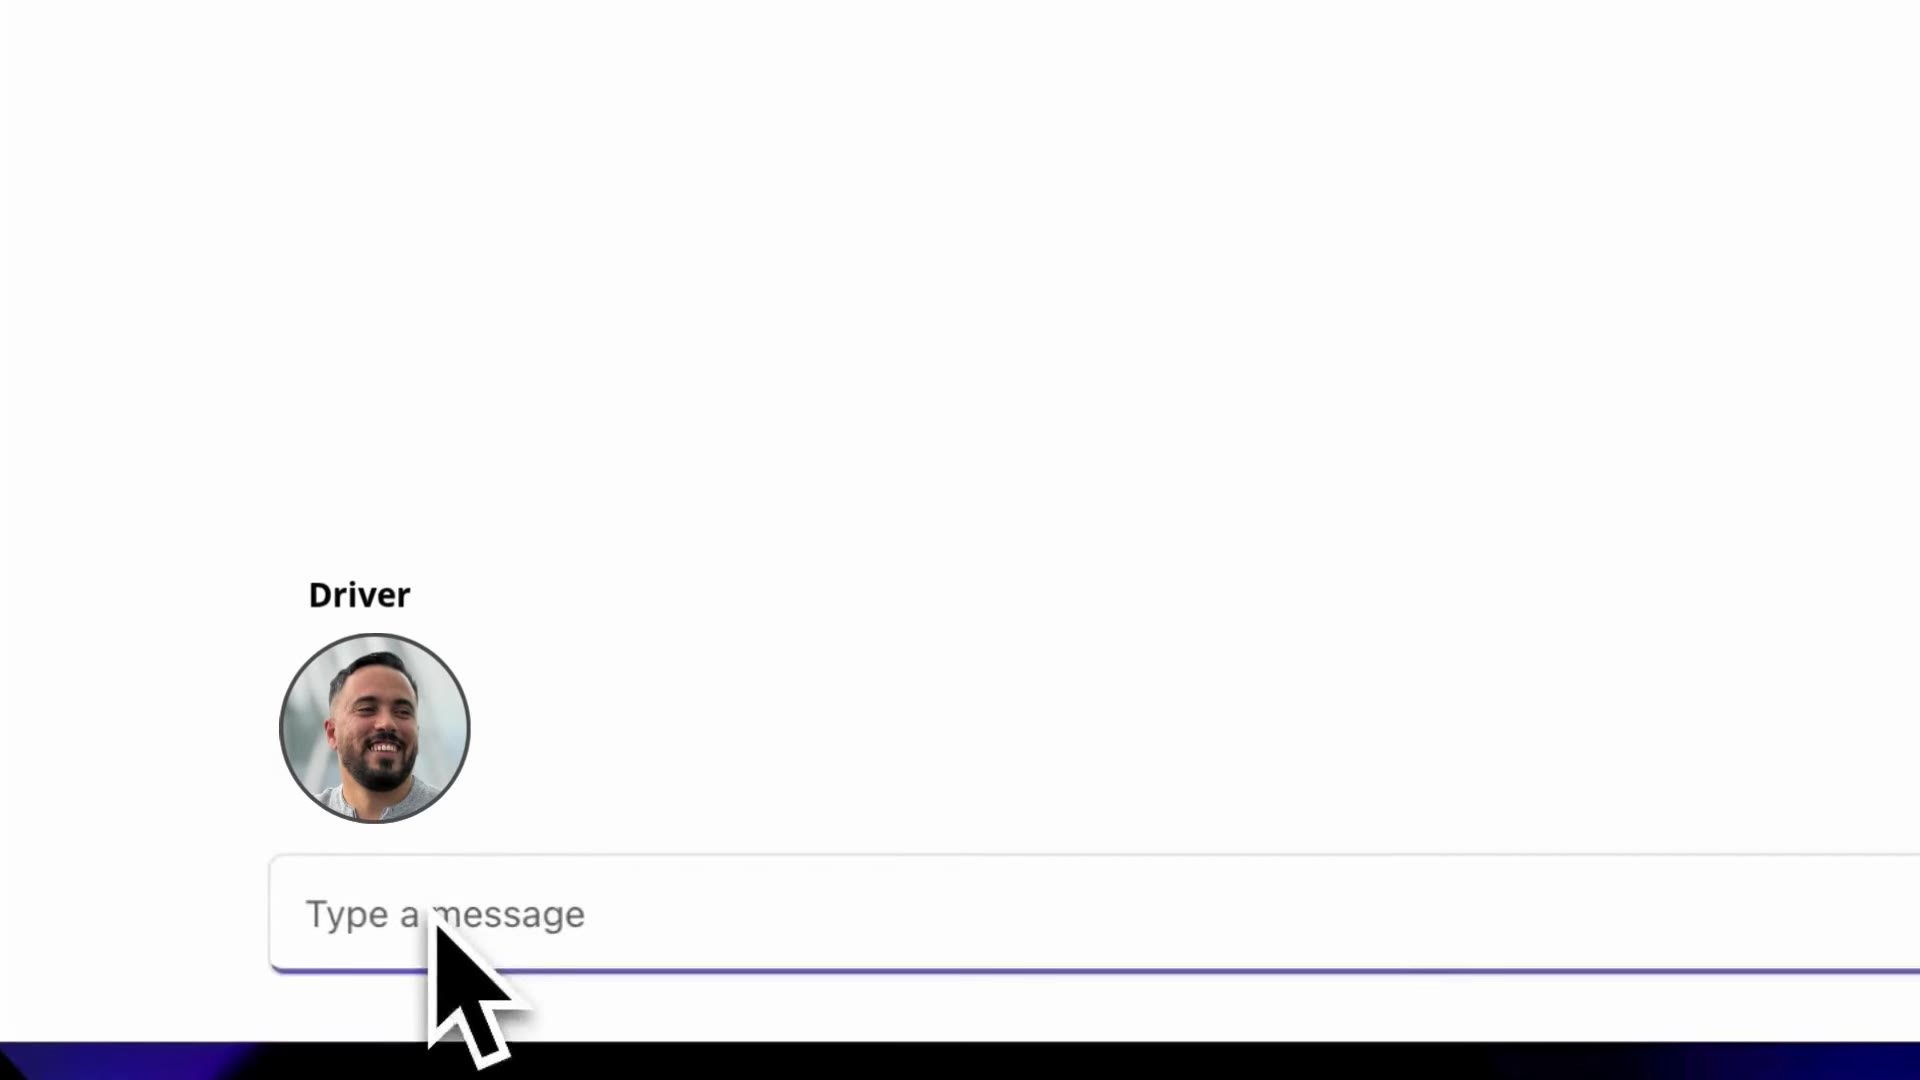
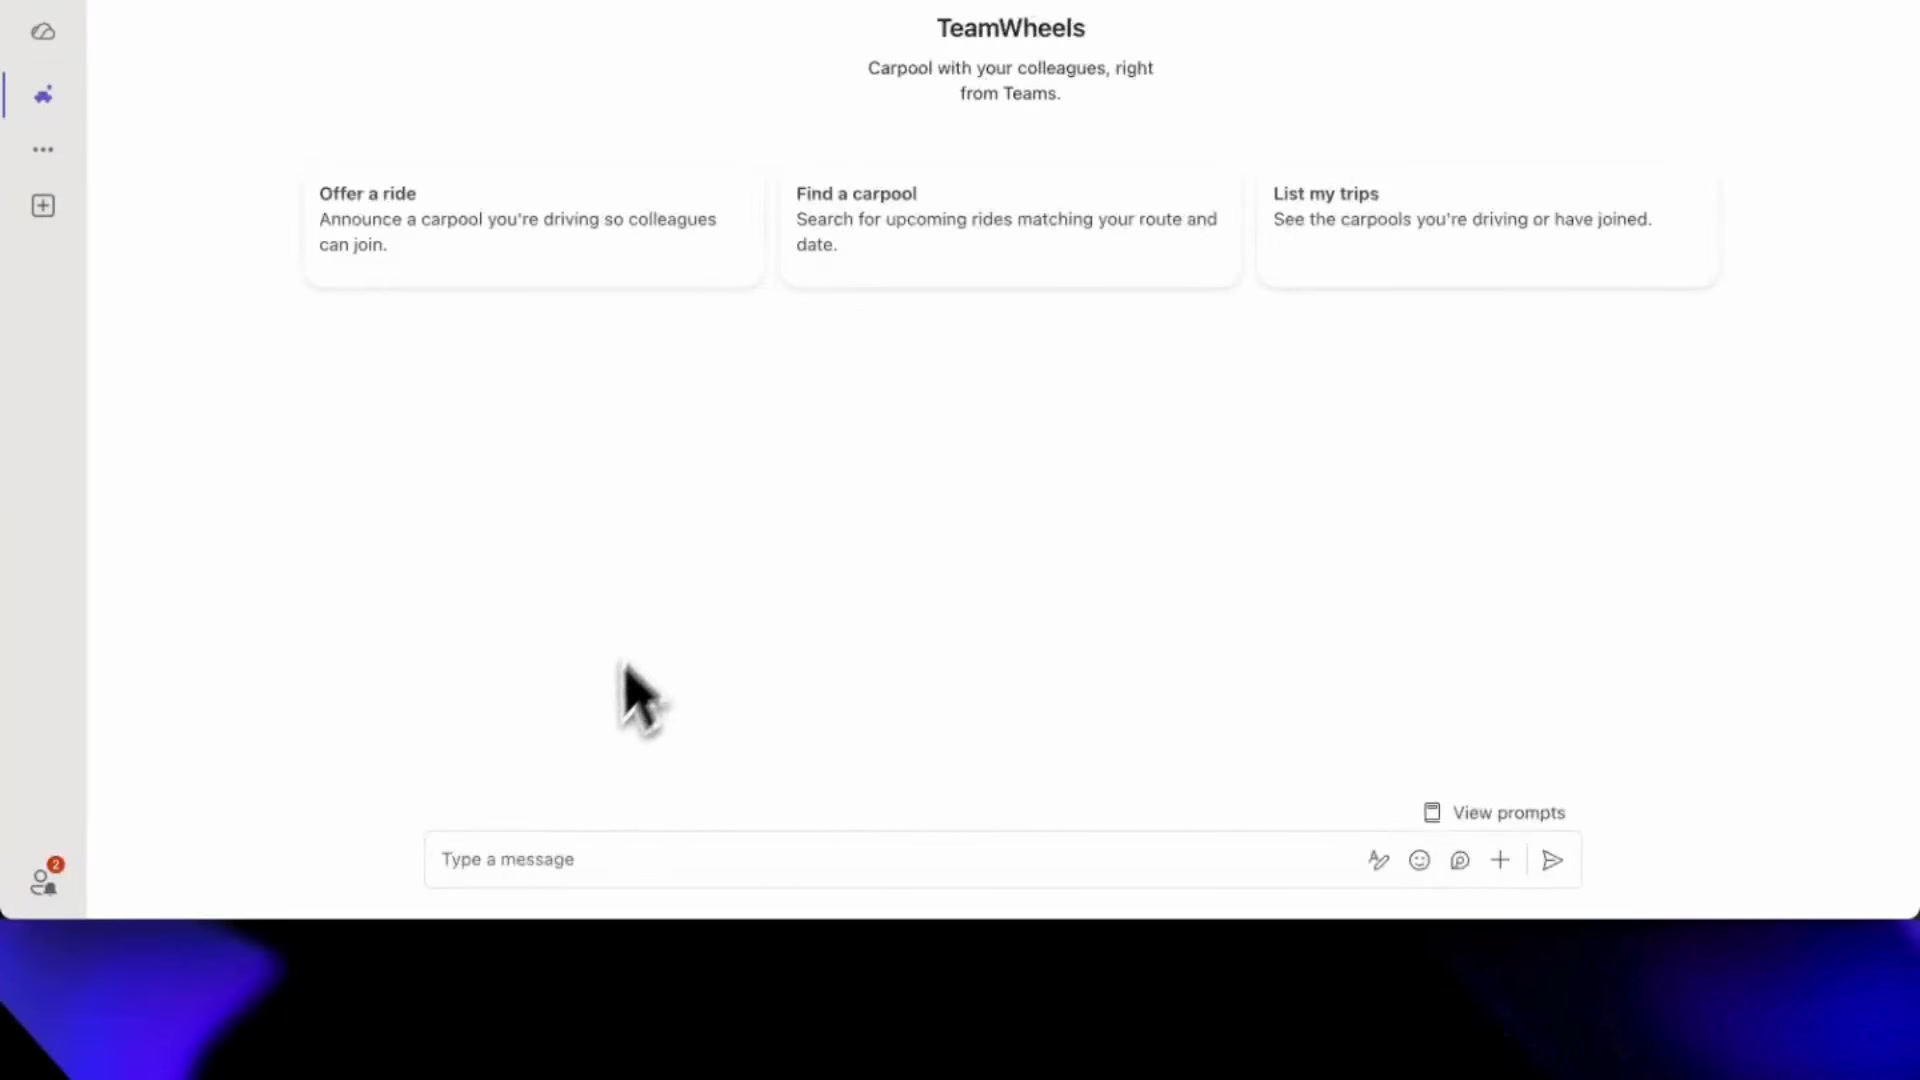
Use a representative mid-clip frame for the demo poster/thumbnail
The poster was grabbed at 2s, where the video shows no meaningful
content. Replace it with the TeamWheels home screen at ~25s — a settled,
sharp frame showing the product (tagline + Offer a ride / Find a carpool
/ List my trips). This is the frame Google uses as the video thumbnail
(VideoObject thumbnailUrl) and what visitors see before playing.

Also updated the poster-encoding note in the README to pull from mid-clip
so future re-encodes don't regress to the empty opening frames.

Claude-Session: https://claude.ai/code/session_013G2nSdVSPApJ7hSisGeEAi

diff --git a/assets/videos/README.md b/assets/videos/README.md
@@ -25,8 +25,11 @@ ffmpeg -i demo-source.mov -c:v libvpx-vp9 -b:v 0 -crf 33 -an \
 ffmpeg -i demo-source.mov -c:v libx264 -crf 28 -an -movflags +faststart \
   -vf "scale=1280:-2" assets/videos/teamwheels-demo.mp4
 
-# Poster (grab a representative frame, e.g. at 2s)
-ffmpeg -i demo-source.mov -ss 00:00:02 -frames:v 1 \
+# Poster / video thumbnail — grab a REPRESENTATIVE, settled frame.
+# The opening seconds aren't meaningful, so pull a frame from mid-clip
+# (the current poster is the TeamWheels home screen at ~25s). Pick a
+# moment where the UI is static, not mid-animation, so text stays sharp.
+ffmpeg -i demo-source.mov -ss 00:00:25 -frames:v 1 -q:v 2 \
   assets/videos/teamwheels-demo-poster.jpg
 ```
 
